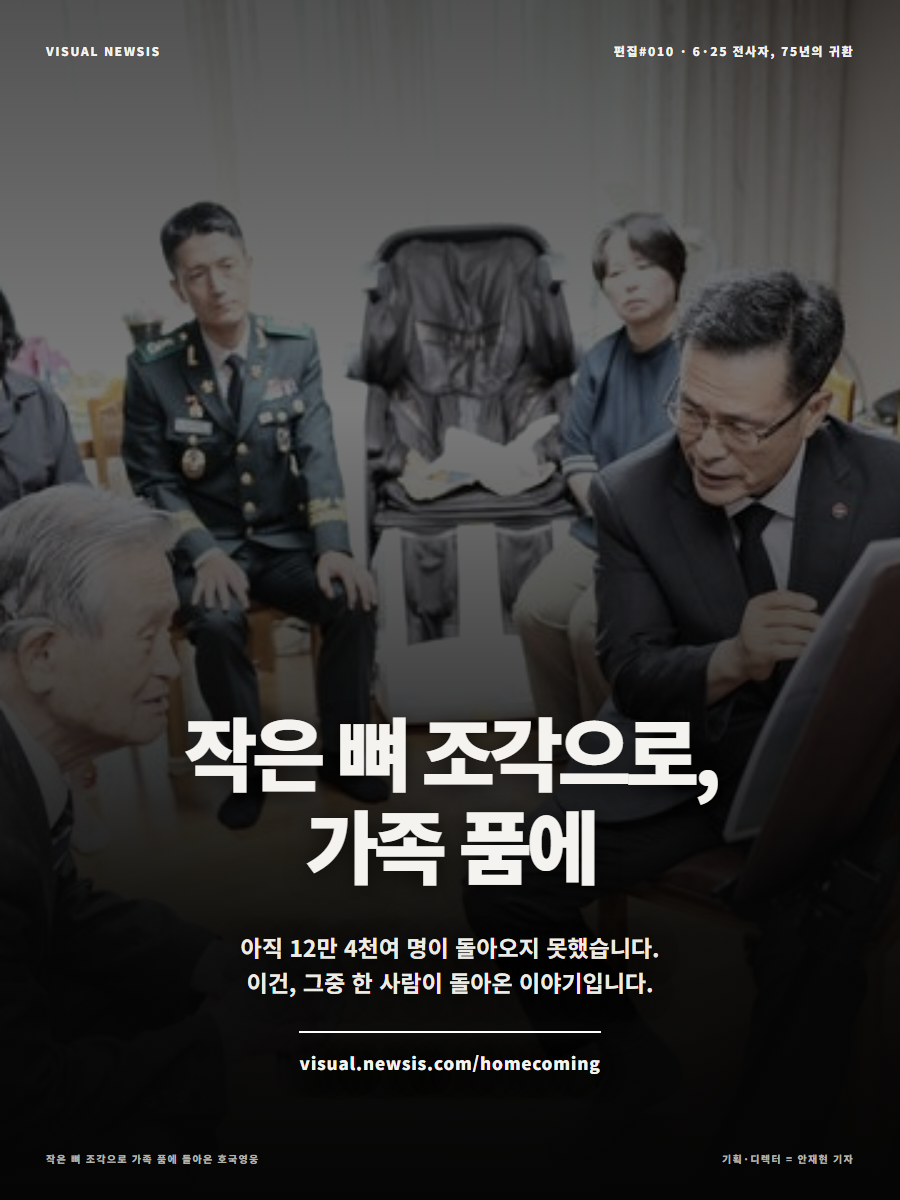
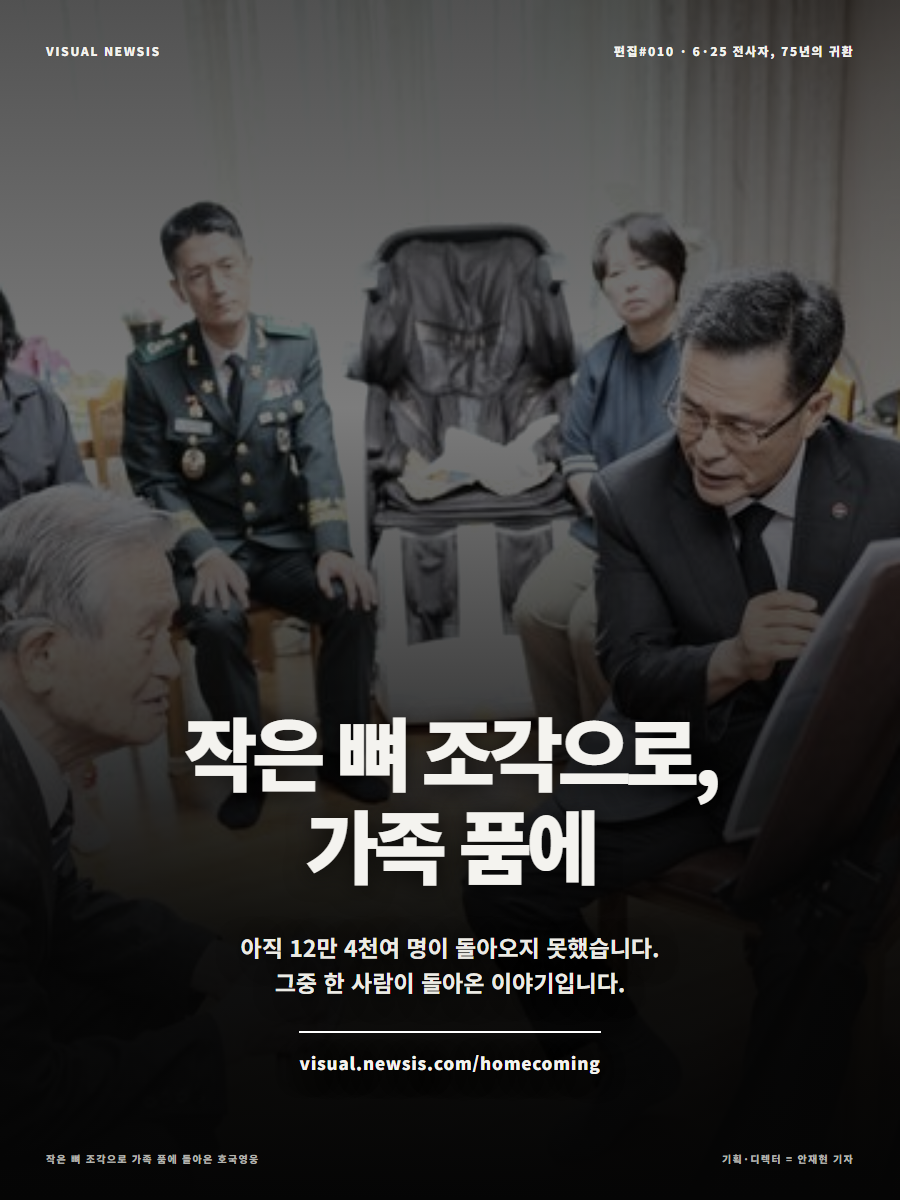
Rewrite homecoming portal body as straight news copy
Replaced the self-referential "비주얼 뉴시스는 ~에 담았습니다/작품은"
piece-description style with a direct news lead per 안재현 기자's
edit — event first, then sourcing, background stats, precedent case,
and participation call, with no reference to the interactive piece
itself. Also dropped the "이건," self-reference from panel 4's
closing line to match.

Changed region(s): [[0.28, 0.8017, 0.7156, 0.8325]]

diff --git a/portal/homecoming/index.html b/portal/homecoming/index.html
@@ -39,7 +39,7 @@
   <section class="panel portrait p4" data-panel="4">
     <img class="photo" src="../../homecoming/images/NISI20260831_0002225933.jpg" alt="전병희 국방부 유해발굴감식단장이 김하준 옹에게 발굴 및 신원확인 과정을 설명하는 모습">
     <div class="shade"></div><div class="top"><span>VISUAL NEWSIS</span><span>편집#010 · 6·25 전사자, 75년의 귀환</span></div>
-    <div class="copy"><h2 class="title">작은 뼈 조각으로,<br>가족 품에</h2><div class="closing">아직 12만 4천여 명이 돌아오지 못했습니다.<br>이건, 그중 한 사람이 돌아온 이야기입니다.</div><div class="cta">visual.newsis.com/homecoming</div></div>
+    <div class="copy"><h2 class="title">작은 뼈 조각으로,<br>가족 품에</h2><div class="closing">아직 12만 4천여 명이 돌아오지 못했습니다.<br>그중 한 사람이 돌아온 이야기입니다.</div><div class="cta">visual.newsis.com/homecoming</div></div>
     <div class="foot"><span>작은 뼈 조각으로 가족 품에 돌아온 호국영웅</span><span>기획·디렉터 = 안재현 기자</span></div>
   </section>
   <script>const panel=new URLSearchParams(location.search).get('panel')||'1';document.querySelector(`[data-panel="${panel}"]`)?.classList.add('on');</script>
